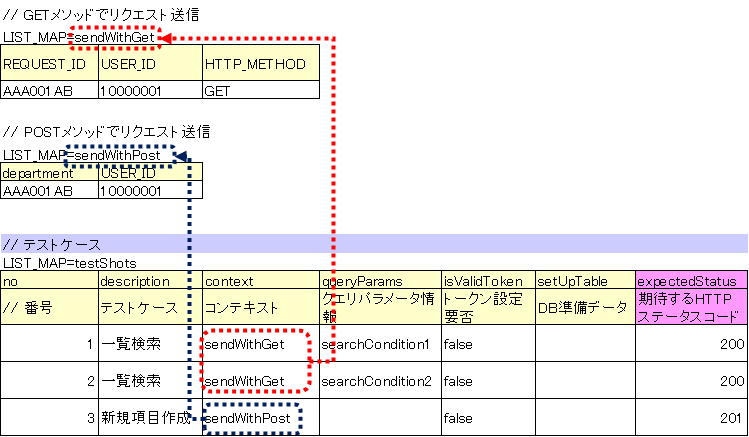
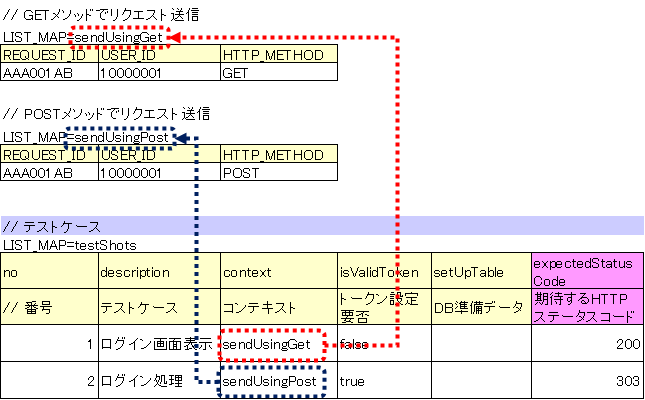
レビュー指摘対応

Changed region(s): [[0.0, 0.0, 1.0, 1.0]]

diff --git a/ja/development_tools/testing_framework/guide/development_guide/05_UnitTestGuide/02_RequestUnitTest/index.rst b/ja/development_tools/testing_framework/guide/development_guide/05_UnitTestGuide/02_RequestUnitTest/index.rst
@@ -133,7 +133,7 @@ LIST_MAPのデータタイプで１テストメソッド分のケース表を記
 |                        |:ref:`グループID<tips_groupId>`\ を記載する。データの投入は自動テストフレームワークに   |     |
 |                        |より行われる。                                                                          |     |
 +------------------------+----------------------------------------------------------------------------------------+-----+
-|expectedStatusCode      |期待するHTTPステータスコードを記載する。 \ [#]_\                                        |必須 |
+|expectedStatusCode      |期待するHTTPステータスコードを記載する。                                                |必須 |
 |                        |                                                                                        |     |
 +------------------------+----------------------------------------------------------------------------------------+-----+
 |expectedMessageId       |メッセージが出力されること期待する場合は、その\ **メッセージID**\ を記載する。          |     |
@@ -189,14 +189,6 @@ LIST_MAPのデータタイプで１テストメソッド分のケース表を記
   IOExceptionが発生するため、ファイル名として許可された内容を入力すること。
   例えば、descriptionに改行コードが含まれていた場合、ファイル名として不正であるためテスト実行時にエラーが発生する。
 
-.. [#] 
-  ウェブアプリケーションのリクエスト単体テストでは、HTTPステータスコードのアサート時に、通常のブラウザで同じリダイレクトの動きとなるス
-  テータスコード 302 および 303 を同一視してアサートする。 つまり予想結果と実行結果が全く同一のHTTPステータスコードであった場合だけで
-  なく、予想結果が 303 で実行結果が 302 であった場合と、予想結果が 302 で実行結果が 303 の場合いずれも アサート結果は正常終了となる。
-  
-  ＜理由＞ RFC の規定では、 HTTP 1.1 を理解するブラウザに対してはリダイレクトに 303 を返すほうがよい作法といえるが、現在主要なWebコ
-  ンテナはレガシーなブラウザを考慮して302のレスポンスコードを使用しているため。
-
 .. _`request_test_user_info`:
 
 
@@ -206,7 +198,7 @@ LIST_MAPのデータタイプで１テストメソッド分のケース表を記
 そのテストケースでリクエストを送る際の、リクエストID、ユーザ、HTTPメソッドを、LIST_MAPのデータタイプで記載する。
 複数のユーザ情報を使い分けることで、ユーザの権限や使用するHTTPメソッドによって処理が異なる機能をテストできる。
 
-HTTPメソッド情報は任意項目である。記載しない場合はデフォルトでPOSTが設定されるので、POSTリクエストを実施するケースの場合は記載不要である。
+HTTPメソッド情報は任意項目である。省略した場合はPOSTが設定される。
 
 例えば、権限によって参照可能なデータが異なる場合は、以下のようにユーザ情報を使い分ける。
 
